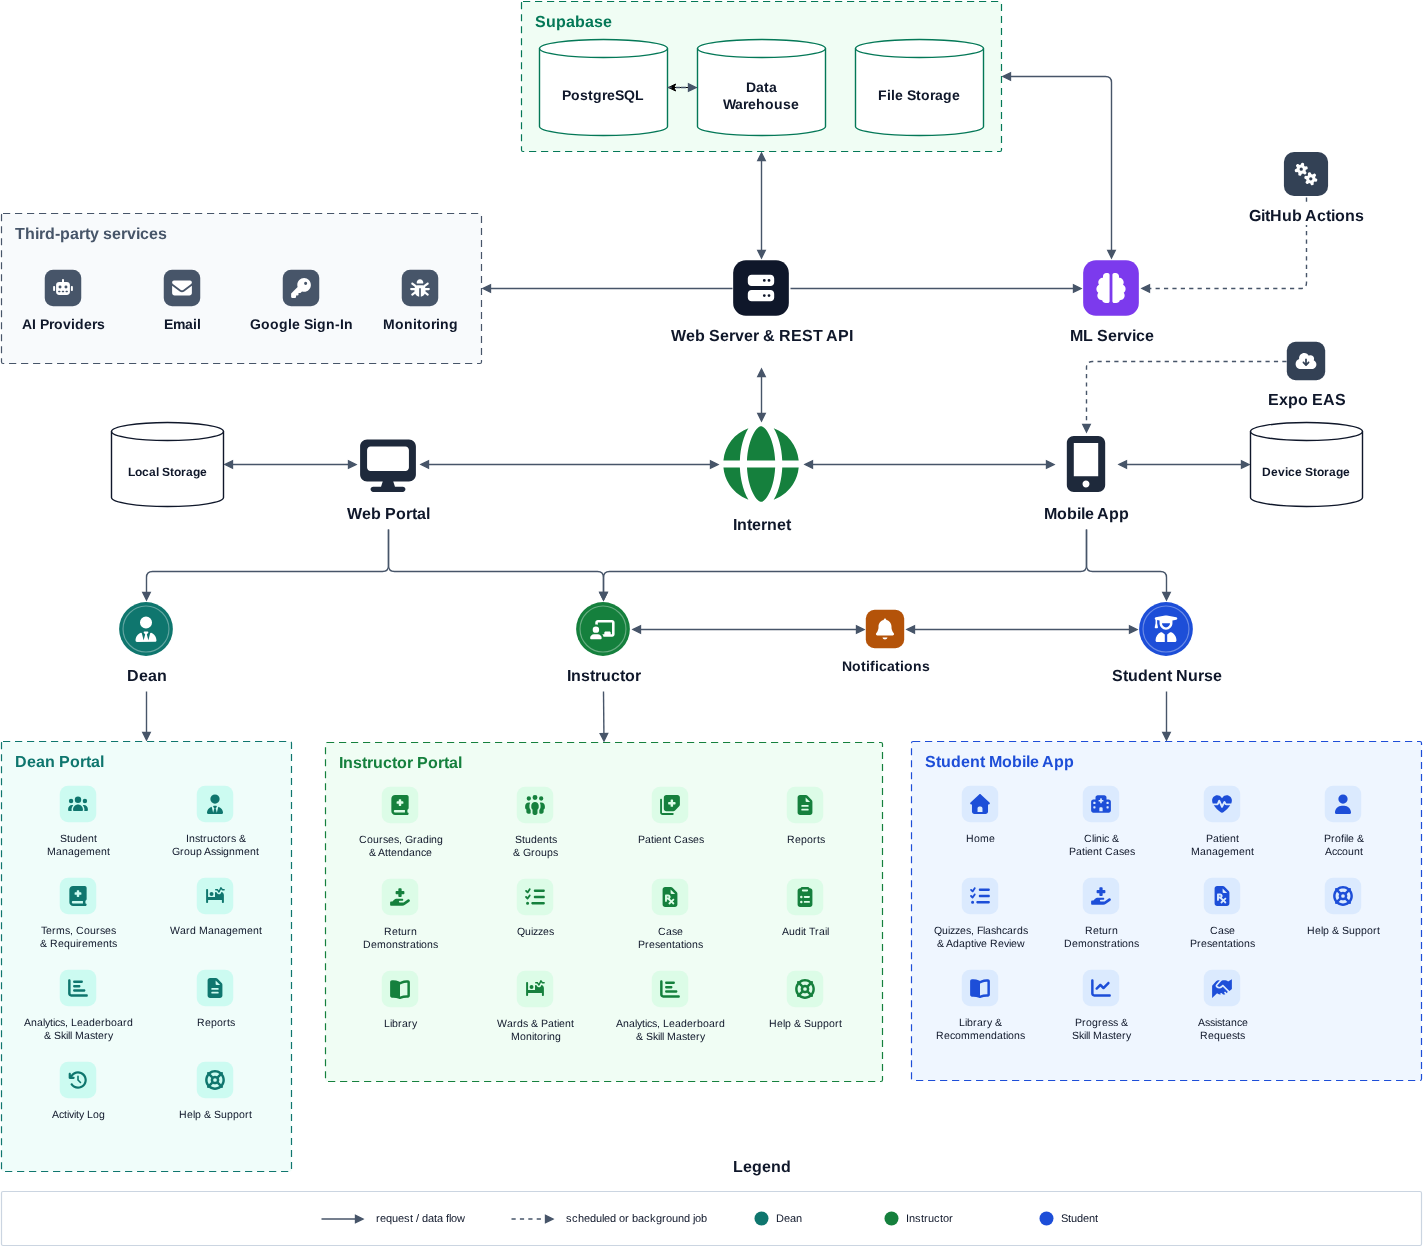
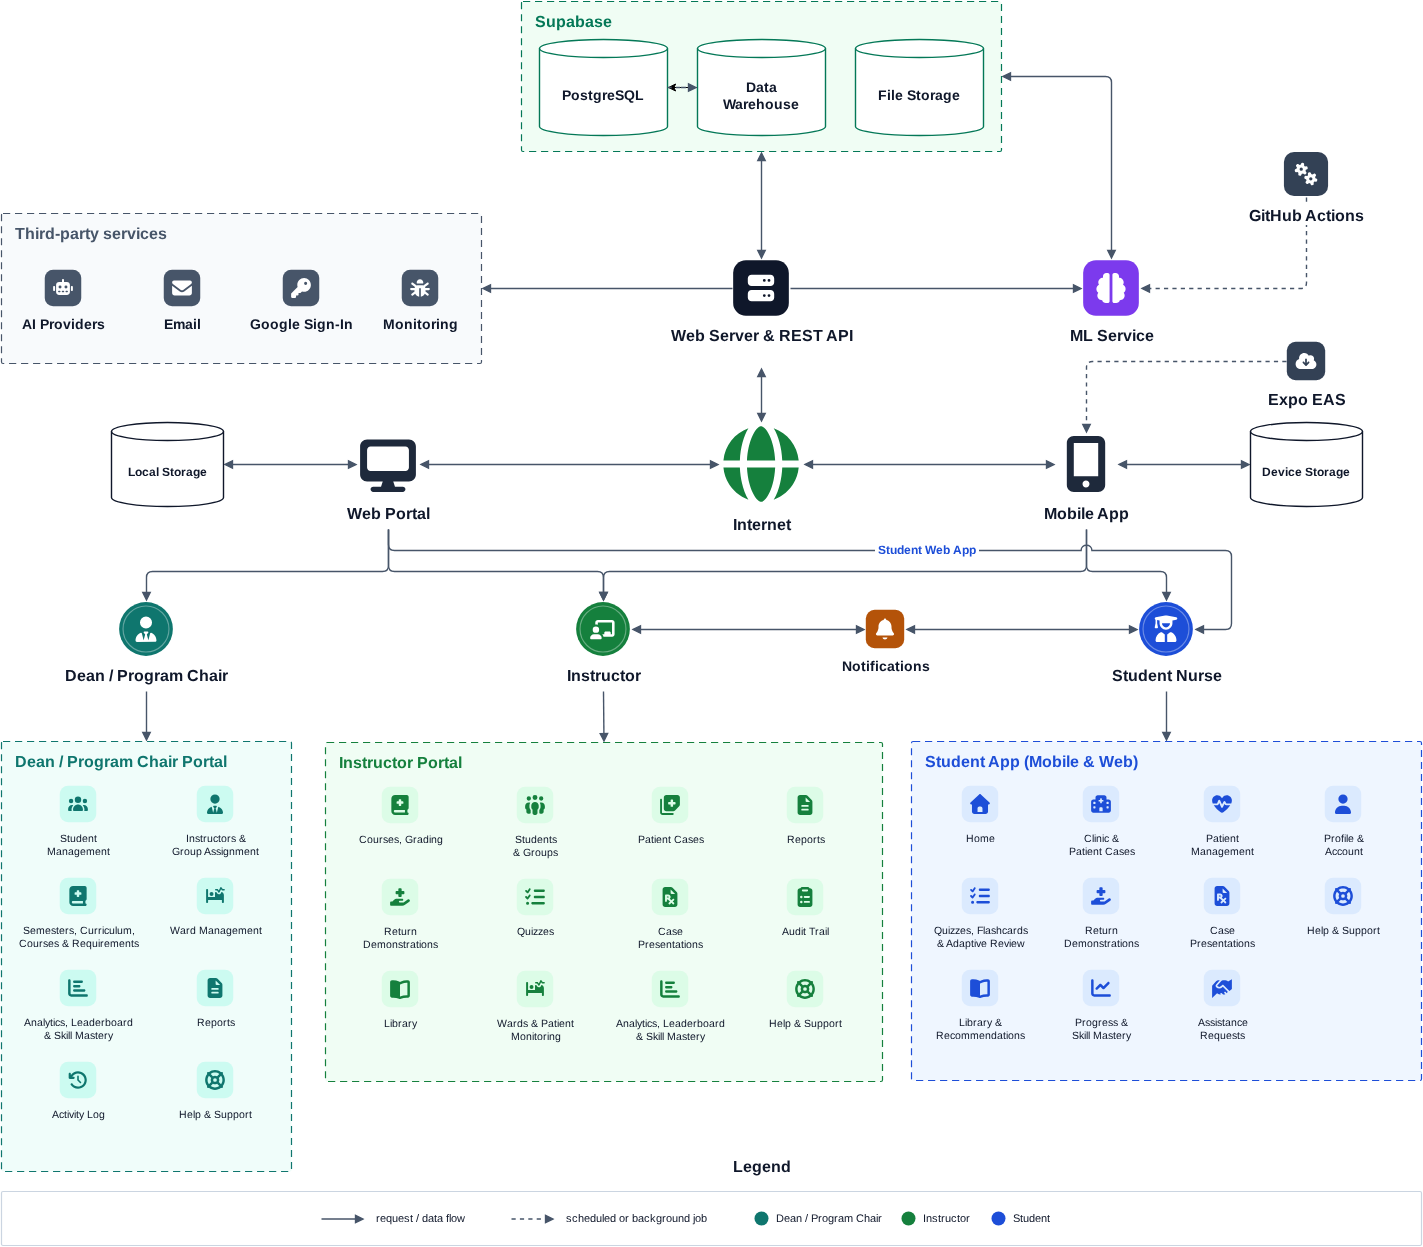
docs(diagrams): show the student web app in the system architecture
The panel approved students using the web app at /student. The system
architecture now has a Student Web App path from the Web Portal to the
Student Nurse, and the student box is Student App (Mobile & Web). Both
PNG exports are regenerated. The docs-updater keeps the new path, and its
export notes say to force Arimo, since the headless render otherwise
falls back to a monospace font.

diff --git a/.claude/agents/docs-updater.md b/.claude/agents/docs-updater.md
@@ -43,10 +43,11 @@ Write plainly: short sentences, the names the UI uses, no marketing tone. Match 
 the document you are editing.
 
 **How students get the app.** Students use the native mobile app: the Android APK now, and the
-Apple App Store for iPhones. The student web portal at `/student` is only a backup. It goes
-live only if the panel agrees to deploy it on the web instead of the App Store. No document
-should present it as the way iPhone students get the app, and no diagram should draw it as a
-student channel unless the user says the panel approved it.
+Apple App Store for iPhones. The student web portal at `/student` is the same app built for
+browsers. The panel has approved students using it (user, 2026-11-16), so the system
+architecture draws it as a student channel: the "Student Web App" edge from the Web Portal to
+the Student Nurse, and the "Student App (Mobile & Web)" box. Keep both. No document should
+present it as the way iPhone students get the app unless the user says so.
 
 ## Diagram rules
 
@@ -104,11 +105,14 @@ goes in your report as stale, for the user to decide.
 | `system-architecture.drawio` | `img/system-architecture-icare.png` |
 
 `img/system-architecture.png` is the user's own export of the system architecture. Leave it
-alone and say in your report if it no longer matches the `.drawio`.
+alone and say in your report if it no longer matches the `.drawio`. (On 2026-11-16 both PNGs
+were written from the same export.)
 
 Export only the diagrams you changed. Render with the draw.io viewer
 (`https://viewer.diagrams.net/js/viewer-static.min.js`) in headless Chromium at device scale
-1 and border 0, then screenshot the rendered diagram's element. Playwright is in
+1 and border 0, then screenshot the rendered diagram's element. Helvetica isn't installed, so
+load Arimo from Google Fonts and force it on `svg text, svg foreignObject *`; without it the
+labels come out in a monospace font at the same image size. Playwright is in
 `web/node_modules/playwright` and its browsers are in `~/.cache/ms-playwright`. Put the export
 script in the session's scratchpad, not in the repo.
 
